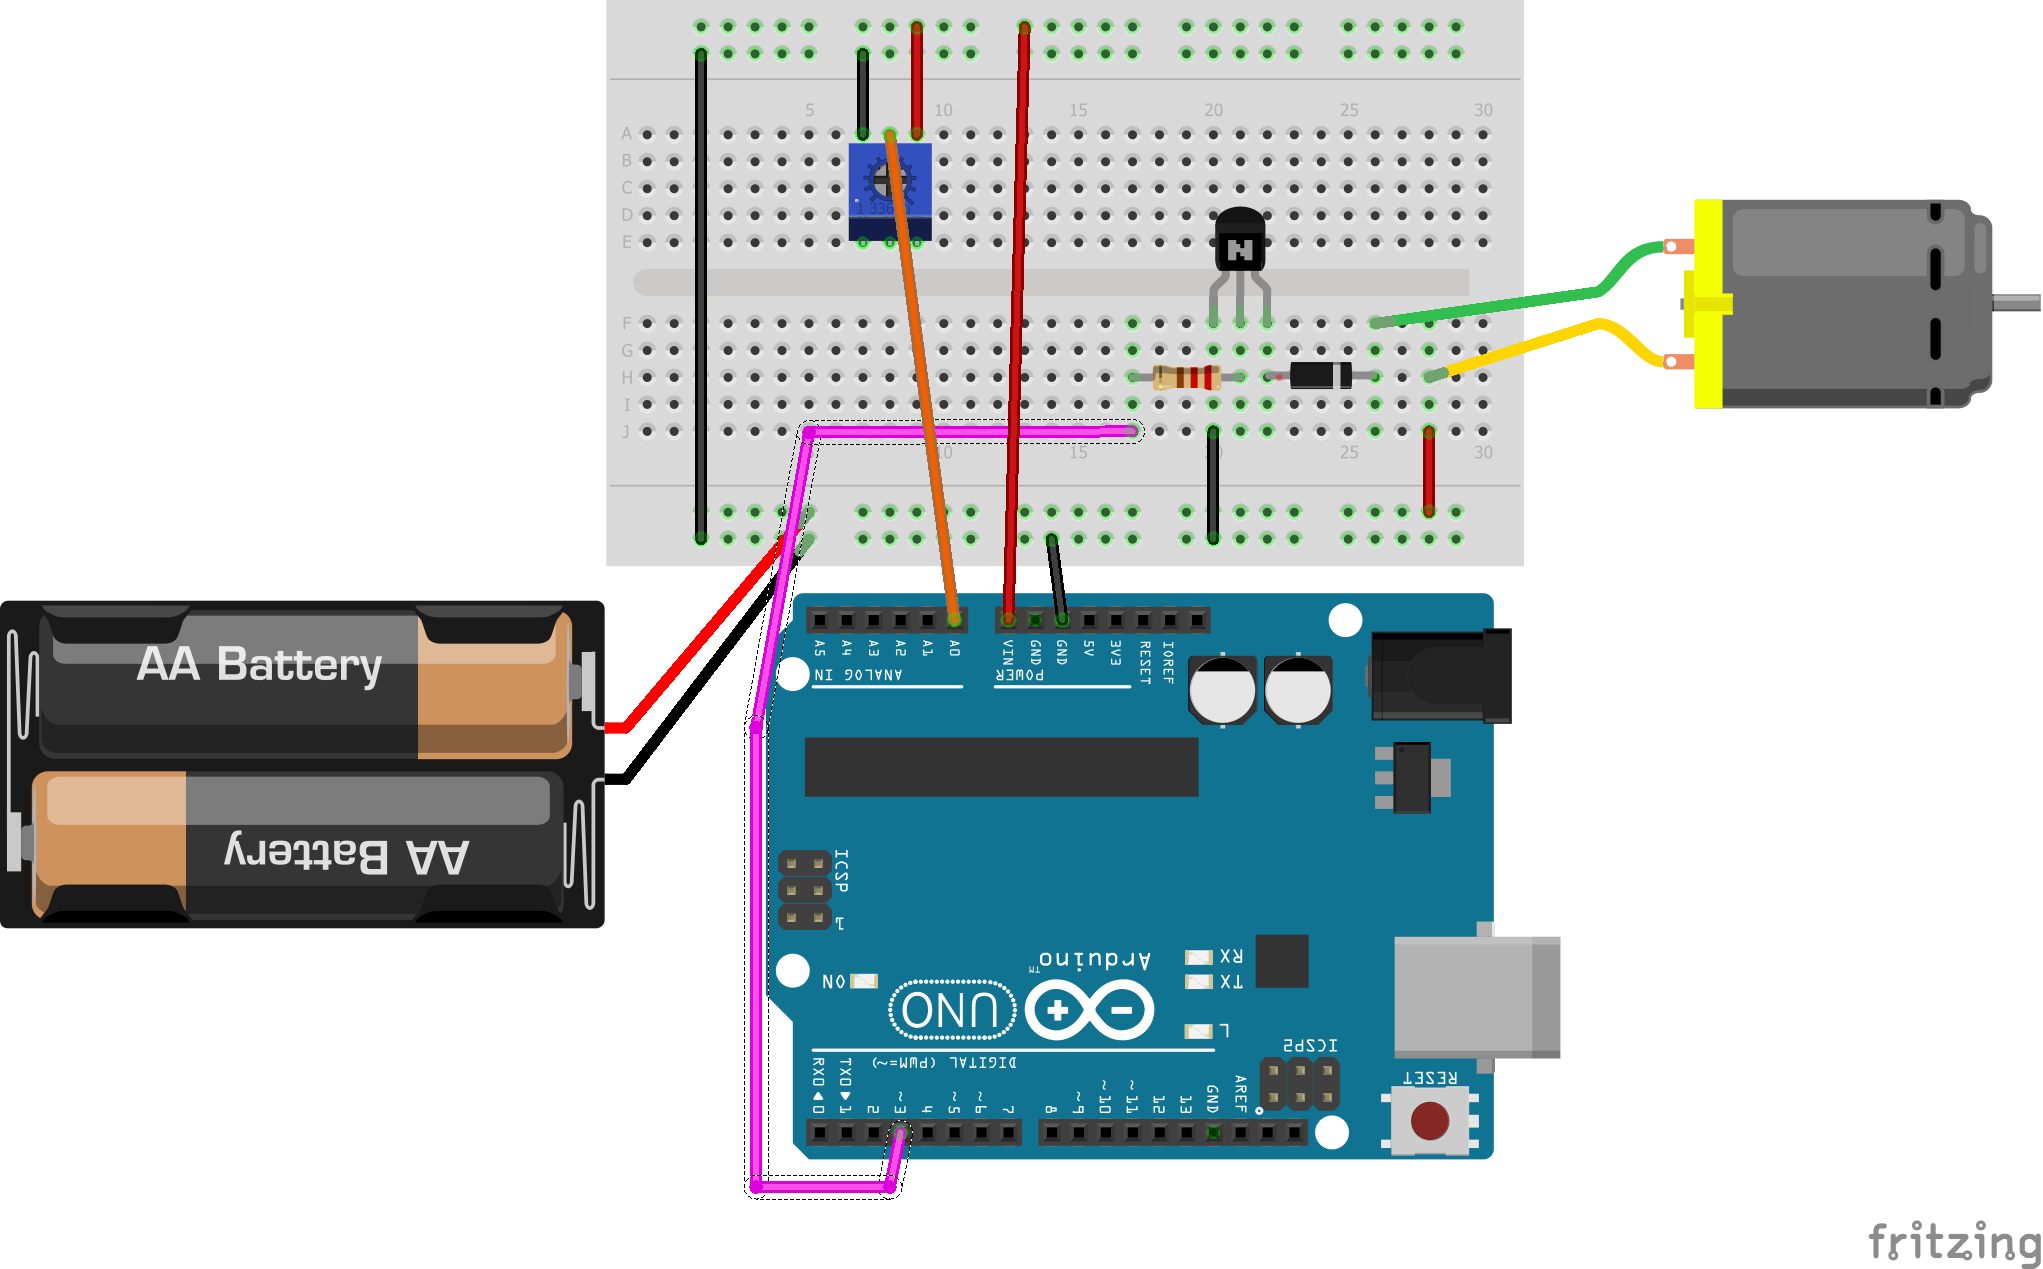
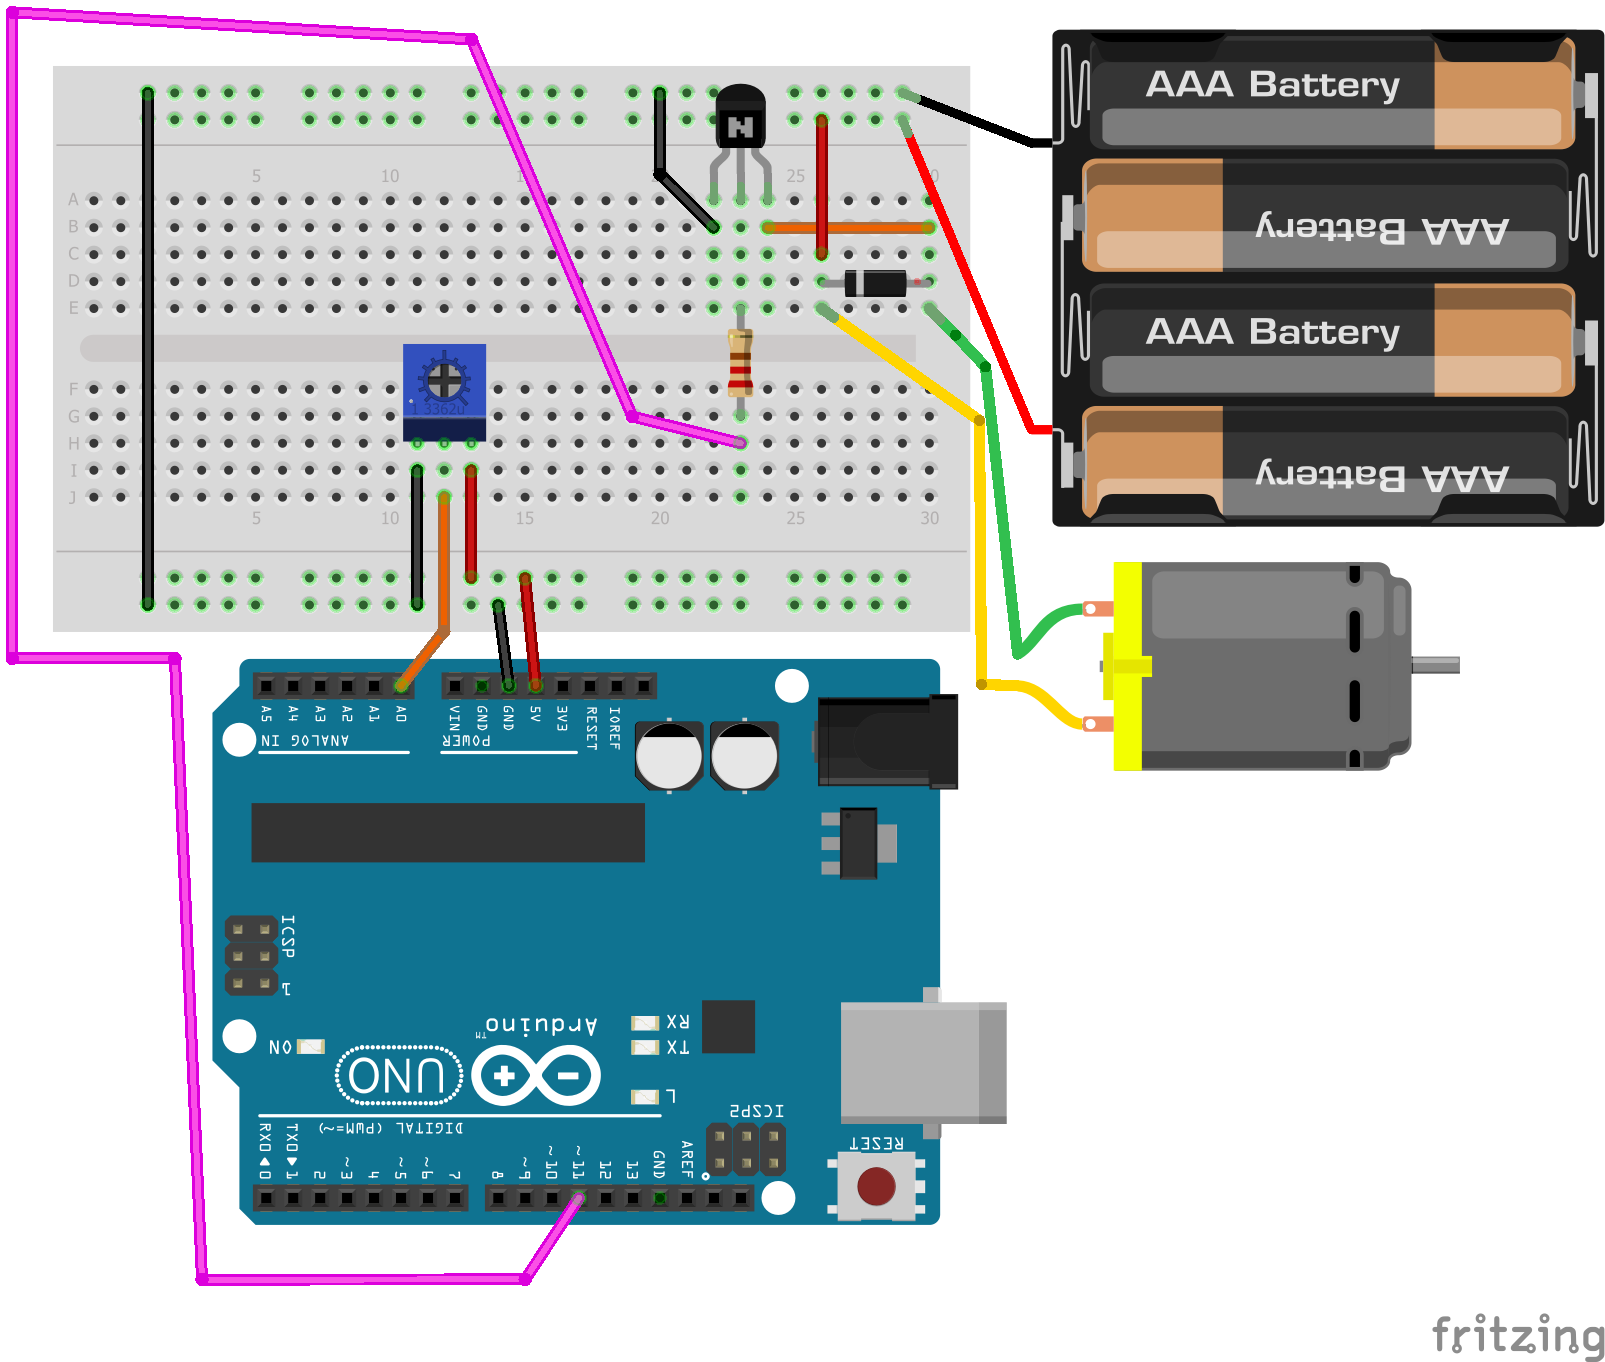
Fixed fritzing and README, should be pretty much done

diff --git a/README.md b/README.md
@@ -261,7 +261,11 @@ Back to [ToC](#table_of_contents)
 
 #### Assignment
 
-Control the rate of a motor's spin
+>In the last assignment, you used a potentiometer to control an LED.  Now you'll control a motor.  One major difference: motors can draw a lot more juice (current) than LEDs.  In fact, they draw so much current, we don't want to power them directly from the Arduino.  That might fry the Arduino.  So, we will power our motor directly from a 6 V battery pack
+
+>For this circuit, you'll read the potentiometer value like before.  That reading will determine how much voltage you send to the transistor base (through a 220 Ω resistor) and that in turn will determine how much current runs from the 6 V battery pack through the motor.  The motor/transistor part of the circuit is below.  Notice the diode.  Diodes are one-way valves for current.  We are using one in this circuit to prevent back emf generated by the motor (take AP Physics C and you'll know what I mean) from messing with the transistor. 
+
+>Let's wire 5 V from the Arduino to one red rail on your breadboard and GND from your Arduino to the blue rail next to it.  Then, wire +6 V from your battery pack to the other red rail and ground from your battery pack to the blue rail next to it.  Then connect the two blue ground rails.  That means everyone's ground is the same.  Once you've done that, you can wire the circuit below.  6 V straight to one side of the motor.  The other side passes through a transistor on its way to ground.  How much current is allowed through the transistor is controlled by the Arduino.  Turn the potentiometer all the way to the left and the motor is off.  Turn the potentiometer up and the motor speeds up.  Piece of cake, right?
 
 #### Code
 Link to code [here.](motor_control/motor_control.ino)
@@ -270,9 +274,11 @@ Link to code [here.](motor_control/motor_control.ino)
 
 *Click on image to go to the fritzing*
 
-Adapted from Alden D.
+Adapted from [Alden D.](https://github.com/adent11)
 
 #### Problems
 
-None. follow the diagram and you'll be good.
+None. follow the diagram and you'll be good...
+
+
 JK! Make sure your battery pack isn't busted or jank. Also get the wiring checked before you plug it up.
